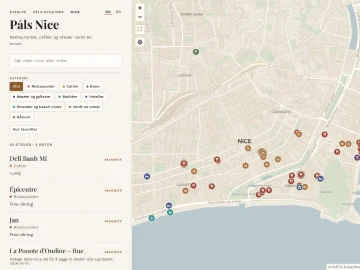
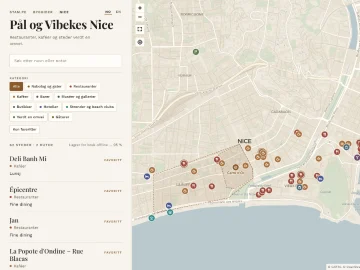
Forside: mørke miniatyrer av byene i mørk modus, og nye lyse
Miniatyrskriptet lager nå både bilder/<id>.webp og bilder/<id>-mork.webp.
De lyse viste fortsatt gamle titler («Påls London», «Påls Nice»).

diff --git a/index.html b/index.html
@@ -41,7 +41,7 @@ if ('serviceWorker' in navigator) navigator.serviceWorker.register('sw.js').catc
    Lista bygges fra byer.json — ny by vises her automatisk. Engelske tekster fra
    feltene land_en, beskrivelse_en og evt. navn_en; mangler de, vises norsk.
    Miniatyr: bilder/<id>.webp (360×270, lages med .claude/miniatyrer.sh), eller feltet «bilde»
-   i byer.json. By med status «kommer» eller uten bilde får en tom ramme i samme størrelse. */
+   i byer.json. I mørk modus bilder/<id>-mork.webp; mangler den, brukes den lyse. By med status «kommer» eller uten bilde får en tom ramme i samme størrelse. */
 const NOKKEL = 'byguider-sprak';
 const TEKST = {
   no: { duErHer: 'Du er her', sidetittel: 'Pål og Vibekes byguider', byguider: 'Byguider', tittel: 'Pål og Vibekes byer',
@@ -104,11 +104,16 @@ function tegn() {
     let bilde;
     if (klar) {
       bilde = document.createElement('img');
-      bilde.src = b.bilde || 'bilder/' + b.id + '.webp';
+      const lys = b.bilde || 'bilder/' + b.id + '.webp';
+      const mork = !b.bilde && matchMedia('(prefers-color-scheme: dark)').matches && 'bilder/' + b.id + '-mork.webp';
+      bilde.src = mork || lys;
       bilde.alt = '';
       bilde.width = 120;
       bilde.height = 90;
-      bilde.addEventListener('error', () => bilde.replaceWith(tomRamme()));
+      bilde.addEventListener('error', () => {
+        if (mork && !bilde.src.endsWith(lys)) bilde.src = lys;
+        else bilde.replaceWith(tomRamme());
+      });
     } else bilde = tomRamme();
     bilde.classList.add('miniatyr');
     const tekst = document.createElement('span');

diff --git a/sw.js b/sw.js
@@ -38,6 +38,7 @@ self.addEventListener('install', e => {
       const byer = (await r.json()).byer || [];
       byer.forEach(b => {
         filer.push(b.id + '/', b.data || ('data/' + b.id + '.md'), b.bilde || ('bilder/' + b.id + '.webp'));
+        if (!b.bilde) filer.push('bilder/' + b.id + '-mork.webp');
         if (b.geometri) filer.push(b.geometri);
       });
     } catch (err) { /* uten byer.json lagres bare skallet */ }

diff --git a/HANDOVER.md b/HANDOVER.md
@@ -86,6 +86,8 @@ Ikke søkbar: forsiden og alle stubbene har `<meta name="robots" content="noinde
 Forsiden viser en miniatyr av åpningssiden foran hver by: `bilder/<id>.webp` som fast regel,
 eller valgfritt felt `bilde` i byer.json. Samme oppskrift som landingssiden stam.pe: viewport
 1300×900, deviceScaleFactor 2, beskåret til 1200×900 fra venstre og skalert til 360×270.
+Hver by har også en mørk utgave, `bilder/<id>-mork.webp`, som forsiden viser i mørk modus
+(mangler den, brukes den lyse). Skriptet lager begge.
 Lag på nytt etter synlige endringer: `.claude/miniatyrer.sh` (alle) eller
 `.claude/miniatyrer.sh https://stam.pe/byguider nice` (én by; tar bildet fra live-siden).
 Vises 120×90 (76×57 på mobil ≤ 600 px). By med `status: "kommer"` eller uten bilde får tom ramme.
